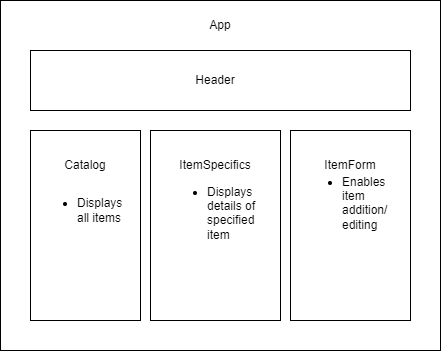
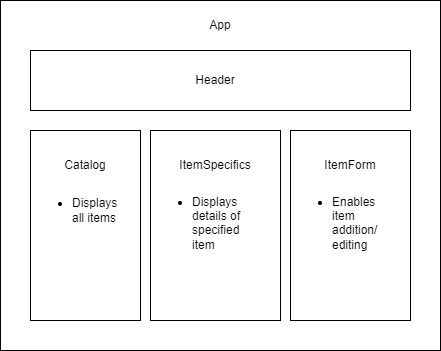
final adjustment to README

diff --git a/README.md b/README.md
@@ -28,7 +28,7 @@ An application that shows the inventory of a finctional surfshop. Users are able
 
 ## Component Diagram
 
-![Component Diagram](planning/comp-diagram.png)
+![Component diagram](planning/comp-diagram.png)
 
 ## Setup/Installation Requirements
 
